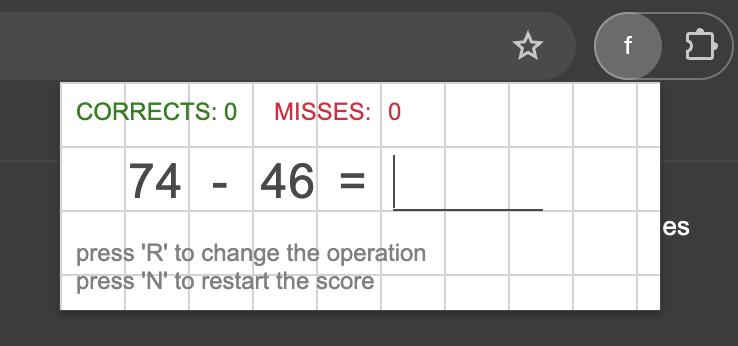
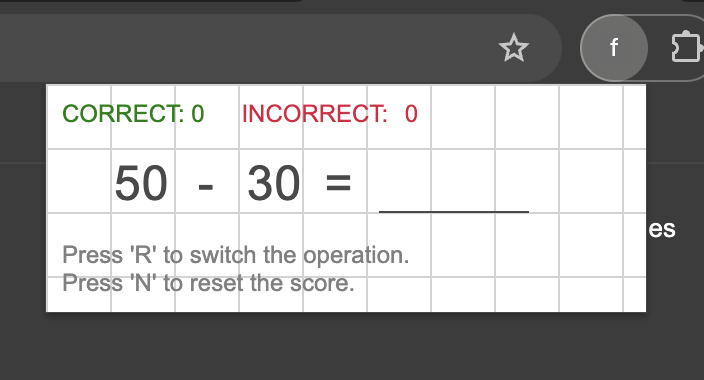
fix: grammar

Changed region(s): [[0.0625, 0.0289, 1.0, 0.896], [0.6875, 0.0867, 0.75, 0.1734]]

diff --git a/src/scripts.ts b/src/scripts.ts
@@ -1,6 +1,6 @@
 let score = {
-  corrects: 0,
-  misses: 0,
+  correct: 0, 
+  incorrect: 0,
 };
 
 document.addEventListener("DOMContentLoaded", () => {
@@ -13,19 +13,19 @@ document.addEventListener("DOMContentLoaded", () => {
   const animationResult =
     document.querySelector<HTMLSpanElement>("#animation-result");
 
-  const scoreCorrectsEl =
-    document.querySelector<HTMLInputElement>("#score-corrects");
-  const scoreMissesEl =
-    document.querySelector<HTMLInputElement>("#score-misses");
+  const scoreCorrectEl =
+    document.querySelector<HTMLInputElement>("#score-correct");
+  const scoreIncorrectEl =
+    document.querySelector<HTMLInputElement>("#score-incorrect");
 
   if (
     !firstOperand ||
     !secondOperand ||
     !operator ||
     !userResult ||
-    !animationResult ||
-    !scoreCorrectsEl ||
-    !scoreMissesEl
+    !animationResult || 
+    !scoreCorrectEl ||
+    !scoreIncorrectEl
   ) {
     console.error("Missing element");
     return;
@@ -36,10 +36,10 @@ document.addEventListener("DOMContentLoaded", () => {
       generateRandomOperation();
     }
     if (event.code === "KeyN") {
-      score.corrects = 0;
-      score.misses = 0;
-      scoreCorrectsEl.textContent = score.corrects.toString();
-      scoreMissesEl.textContent = score.misses.toString();
+      score.correct = 0;
+      score.incorrect = 0;
+      scoreCorrectEl.textContent = score.correct.toString();
+      scoreIncorrectEl.textContent = score.incorrect.toString();
     }
   });
 
@@ -54,7 +54,7 @@ document.addEventListener("DOMContentLoaded", () => {
     const randomOperator =
       operators[Math.floor(Math.random() * operators.length)];
 
-    operator.textContent = randomOperator;
+    operator.textContent = randomOperator; 
 
     const largestNumberLimit = 100;
     const firstOperandValue = Math.floor(Math.random() * largestNumberLimit);
@@ -62,10 +62,10 @@ document.addEventListener("DOMContentLoaded", () => {
 
     firstOperand.textContent = firstOperandValue.toString();
     secondOperand.textContent = secondOperandValue.toString();
-    const handleOperation = (event: KeyboardEvent) => {
-      if (
-        event.key === "Enter" &&
-        document.activeElement === userResult &&
+    const handleOperation = (event: KeyboardEvent) => { 
+      if ( 
+        event.key === "Enter" && 
+        document.activeElement === userResult && 
         userResult.value
       ) {
         let result: number;
@@ -89,16 +89,16 @@ document.addEventListener("DOMContentLoaded", () => {
         if (result === parseFloat(userResult.value)) {
           animationResult.classList.add("animation-result");
           animationResult.textContent = "CORRECT!";
-          score.corrects = score.corrects + 1;
-          scoreCorrectsEl.textContent = score.corrects.toString();
+          score.correct = score.correct + 1;
+          scoreCorrectEl.textContent = score.correct.toString();
           animationResult.addEventListener("animationend", () => {
             animationResult.style.opacity = "0";
             animationResult.style.transform = "scale(0)";
             generateRandomOperation();
           });
         } else {
-          score.misses = score.misses + 1;
-          scoreMissesEl.textContent = score.misses.toString();
+          score.incorrect = score.incorrect + 1;
+          scoreIncorrectEl.textContent = score.incorrect.toString();
         }
       }
     };

diff --git a/index.html b/index.html
@@ -13,8 +13,8 @@
     <span id="animation-result" class="animation-text"></span>
   </div>
   <div class="score-wrapper">
-    <span>Corrects: <span id="score-corrects">0</span></span>
-    <span>Misses: <span id="score-misses">0</span></span>
+    <span>Correct: <span id="score-correct">0</span></span>
+    <span>Incorrect: <span id="score-incorrect">0</span></span>
   </div>
   <div class="game-wrapper">
     <span id="firstOperand" class="operand"></span>
@@ -25,8 +25,8 @@
   </div>
 
     <div class="help">
-      <p>press 'R' to change the operation</p>
-      <p>press 'N' to restart the score</p>
+      <p>Press 'R' to switch the operation.</p>
+      <p>Press 'N' to reset the score.</p>
     </div>
   <script src="/dist/scripts.js" defer></script>
 </body>
